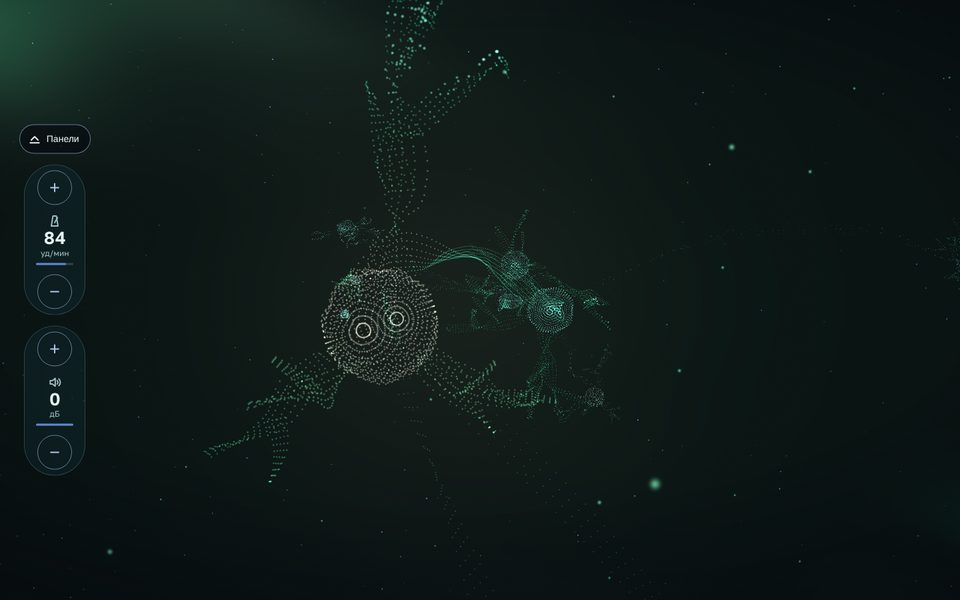
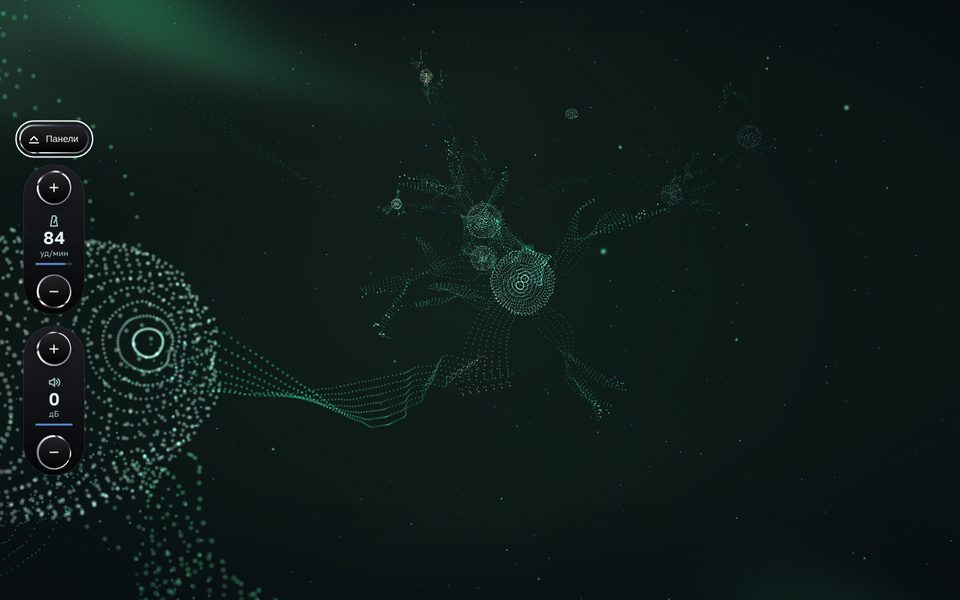
docs: rewrite README, new screenshots, license holder

diff --git a/README.md b/README.md
@@ -1,14 +1,14 @@
 # Нейросинт
 
-Браузерный грувбокс на Tone.js и Three.js: шесть лупов, четыре части сета, 3D-визуализация звука.
+Браузерный грувбокс для спокойного сета. Шесть лупов, четыре части, которые сбавляют темп и яркость, и 3D-нейроны, которые светятся вместе со звуком. Tone.js и Three.js, без сборки.
 
 ![Нейросинт](docs/screenshot.jpg)
 
-## Запуск
-
 Демо: https://digitalsecretaryalex-prog.github.io/WebsintAlex/
 
-Сборки нет. Нужен локальный сервер и доступ к CDN.
+## Запуск
+
+Нужен локальный сервер и доступ к CDN (Tone.js, Three.js, шейдеры металла, шрифт).
 
 ```bash
 git clone https://github.com/digitalsecretaryalex-prog/WebsintAlex.git
@@ -16,205 +16,158 @@ cd WebsintAlex
 python3 -m http.server 8000
 ```
 
-Открыть http://localhost:8000. Сначала заставка: стеклянная плитка со знаком и кнопка «Войти» (`Esc` тоже закрывает). Звук она не запускает. Потом круглая кнопка слева сверху.
+Открыть http://localhost:8000 и нажать круглую кнопку слева сверху. Звук стартует только по клику.
 
-Под кнопкой старта две кнопки: «Варианты» раскрывает три ряда (виды нейронов, фон, вид пульта), вторая прячет панели (`H`), чтобы смотреть на нейроны. Обе стоят на оси кнопки старта. У каждой кнопки подсказка по наведению. Выбор хранится в адресе:
+Выбор хранится в адресе, ссылка открывает то же самое:
 
-- `?view=flight|stream|field|cascade|tunnel|wave`: вид нейронов, без параметра `field`
-- `?bg=dust|calcium|tracts`: фон, во всех видах
-- `?ui=metal|glass|liquid`: вид пульта, без параметра обычный (ниже)
-- `?intro=0`: без заставки
+| Параметр | Значения | По умолчанию |
+| --- | --- | --- |
+| `?view=` | `flight`, `stream`, `field`, `cascade`, `tunnel`, `wave` | `tunnel` |
+| `?bg=` | `membrane`, `cortex`, `brain`, `sync`, `plasma`, `dust` | `membrane` |
+| `?ui=` | `liquid`, `glass`, `metal`, `base` | `liquid` |
 
-Шесть капсул равной ширины, ряд кончается по краю растра. Сброс, часть 4, кольцо DJ-фильтра и громкость стоят на одной вертикали. Колонка выхода шириной с кольцо, поэтому поля слева и справа равны.
-
-## Управление
+## Как играть
 
 |  | Мышь | Клавиши |
 | --- | --- | --- |
 | Старт / стоп | кнопка слева сверху | `Space` |
 | Слой | кнопка слоя | `1`-`6` |
-| Вариация | точки под кнопкой | `Q` `W` `E` `R` `T` `Y` |
+| Вариация слоя | три точки под кнопкой | `Q` `W` `E` `R` `T` `Y` |
 | Часть сета | кнопки сверху | `Z` `X` `C` `V` |
 | Сброс части | круг справа сверху | `0` |
-| Скрыть панели | кнопка под «Вариантами», вернуть: «Панели» слева | `H` |
-| Ракурс | тянуть по фону, правая кнопка или Shift сдвигает, колесо приближает |  |
-| Ручки и движки | drag, двойной клик для сброса | стрелки, `PageUp`, `PageDown`, `Home`, `End` |
-| Панорама слоя, свинг | только в `?ui=glass` и `?ui=liquid`: четвёртая ручка капсулы и ручка рядом с темпом | как у ручек |
+| Виды и фоны | кнопка под стартом |  |
+| Скрыть панели | кнопка под ней, вернуть: «Панели» слева | `H` |
+| Ракурс нейронов | тянуть по экрану, правая кнопка или Shift сдвигает, колесо приближает |  |
+| Ручки и движки | тянуть, двойной клик сбрасывает | стрелки, `PageUp`, `PageDown`, `Home`, `End` |
 
-Смены слоёв и частей применяются с начала следующего такта.
+Смены слоёв, вариаций и частей звучат с начала следующего такта. Когда панели скрыты, слева остаются темп (шаг 1 уд/мин) и общая громкость (шаг 2 дБ).
 
-Когда панели скрыты, на экране только нейроны и слева два регулятора: темп по 1 уд/мин (части сета отличаются на 4–5) и общая громкость по 2 дБ. Клик даёт один шаг, удержание повторяет шаг, стрелки на значении тоже шагают, `PageUp` и `PageDown` по пять шагов. Значения те же, что у крутилки темпа и движка выхода.
+Сет из четырёх частей:
 
-![Скрытые панели](docs/hidden.jpg)
+| Часть | Темп | Что меняется                                            |
+| ----- | ---- | ------------------------------------------------------- |
+| 1     | 84   | бочка, перкуссия, бас, пэд, фон                         |
+| 2     | 79   | входит мелодия                                          |
+| 3     | 74   | уходит бочка, общий фильтр прикрыт на 25 %              |
+| 4     | 70   | редкая бочка, без перкуссии, фильтр −45 %, мастер −3 дБ |
 
-| Часть | BPM | Слои                                      |
-| ----- | --- | ----------------------------------------- |
-| 1     | 84  | бочка, перкуссия, бас, пэд, фон           |
-| 2     | 79  | + мелодия                                 |
-| 3     | 74  | без бочки, фильтр −25 %                   |
-| 4     | 70  | без перкуссии, фильтр −45 %, мастер −3 дБ |
+## Звук
+
+```
+источник → Filter → FeedbackDelay → Reverb → Channel ─┐ ×6
+                                                       └→ lowpass → highpass → FeedbackDelay → Volume → Channel → Limiter → выход
+```
+
+У каждого слоя ручки тона (фильтр), эха, простора (реверб) и панорамы, движок громкости и Mute. На выходе DJ-фильтр (влево срезает верха, вправо низы), общее эхо и громкость. Рядом с темпом свинг шестнадцатых.
+
+- Звук без DOM: `audio.js` строит граф и транспорт, интерфейс звук не создаёт.
+- Граница такта считается в тиках транспорта: `'@1m'` считает в секундах и после плавной смены темпа промахивается.
+- Пэд на `fatsawtooth`: осциллятор `pwm` в Tone.js строится на WaveShaper и давал алиасинг, слышный как хрип. Контекст с `latencyHint: 'playback'`, буфер больше, звук не рвётся под нагрузкой 3D.
+- Моно-синт не запускается дважды в одно время: под тяжёлой графикой Tone изредка отдаёт шаг дважды, и синт падал с ошибкой.
+
+## Свет под звук
+
+Каждая нота приходит в картинку событием с громкостью, высотой и длиной (`audio.js: notify`). Событие ждёт, пока звук дойдёт до колонок (время ноты плюс `baseLatency` и `outputLatency`), поэтому вспышка совпадает с ударом.
+
+Все ручки слоя видны в свете одинаково во всех видах и фонах (`src/backgrounds/hearing.js`):
+
+| Ручка | Что видно |
+| --- | --- |
+| тон (фильтр) | закрытый даёт тусклую вспышку, открытый яркую |
+| эхо, обратная связь | вспышка повторяется через пунктирную восьмую, до трёх раз |
+| простор (реверб) | свечение тает дольше |
+| панорама | вспышка на своей стороне экрана |
+| громкость, слой включён | яркость нейронов слоя |
+| Mute | слой не светится |
+| темп, свинг | скорость импульсов и волн |
+| DJ-фильтр закрыт | меньше видимых связей, тусклее |
+| часть 1 → 4 | цвет уходит в ледяной, лавины короче, волны медленнее |
+
+До звука нейроны спят: свет медленно дышит, движение стоит. Просыпаются, когда звук действительно пошёл, а не по клику.
 
 ## Виды нейронов
 
-До звука сеть спит во всех видах: шары и камера стоят, свет медленно дышит. Просыпается не по клику, а когда звук реально пошёл (`audio.isSounding()`: транспорт запущен и аудиоконтекст работает). После стопа движение плавно затихает, сцена не сбрасывается.
-
-### Цепь: тоннель и волна
-
-Два вида собраны из приёмов двух эталонных сцен Three.js (Tunnel и Flow Wave). Сцены взяты не целиком: из каждой взят способ рисовать точками, цвет и фон, и этим способом нарисованы нейроны. Поведение у обоих видов общее (`src/views/chain.js`):
-
-- нейроны стоят цепью на изогнутом пути; импульс проходит один пролёт за такт и доходит до следующего нейрона перед сильной долей: волна бежит по дендритам к телу, тело вспыхивает цветом слоя;
-- нейрон впереди рождается по мере приближения камеры;
-- камера держится позади импульса и мягко его догоняет;
-- на периферии живут нейроны слоёв: нота зажигает нейрон своего слоя, его сигнал бежит по аксону к цепи;
-- форма дендритов общая (`src/views/skeleton.js`): звёздчатые нейроны и каждый третий пирамидный.
+Ключевые нейроны крупным планом, по ним видно каждую ноту.
 
 |                                  |                              |
 | -------------------------------- | ---------------------------- |
 | ![Тоннель](docs/view-tunnel.jpg) | ![Волна](docs/view-wave.jpg) |
 
-- `tunnel`: приём сцены Tunnel. Точки на кольцах трубы, шум в две октавы рябит радиус, угол дрожит и закручивается, цвет от индиго к циану. Тело нейрона: воронка из колец, сужается в аксон. Аксон: тонкий тоннель с перехватами миелина, импульс раздувает кольца. Нейрон рождается из вихря.
-- `wave`: приём сцены Flow Wave. Ровная сетка точек читается пунктирными линиями, по ней катятся холмы шума, цвет от изумрудного к мятному на гребнях. Тело: мембрана-сфера, по ней от дендритов к аксону катятся холмы, вспышка расходится кругами. Дендриты и аксон: ленты из той же сетки, импульс катится по ленте валом с рябью. Нейрон рождается из плоского листа точек. Во сне камера висит высоко, со звуком ныряет к ленте аксона, после стопа поднимается.
-
-#### Свет под звук
-
-Каждая нота каждого слоя приходит в вид отдельным событием с громкостью, высотой и длиной (`audio.js: notify` → `chain.pulse`). У слоя свой рисунок света, поэтому по картинке слышно, кто играет:
-
-| Слой | Что вспыхивает |
-| --- | --- |
-| бочка | всё тело и дендриты толкаются от удара, камера на миг подаётся вперёд, фон светлеет; в волне от тела расходится кольцо |
-| перкуссия | искры на кончиках дендритов, на каждый удар новый узор; акцент ярче |
-| бас | аксон светится цветом баса, пока нота звучит |
-| пэд | тело наливается цветом аккорда, фон окрашивается в цвет пэда |
-| мелодия | пакет бежит по одному дендриту к телу за полдлины ноты; какой дендрит, решает высота ноты |
-| фон | пылинки вокруг цепи вспыхивают по одной на каждый щелчок |
-
-Ручки слоя тоже видны в свете: закрытый фильтр даёт тусклую вспышку, эхо повторяет её через пунктирную восьмую (как `FeedbackDelay`), простор (реверб) удлиняет хвост, панорама зажигает нейрон слева или справа от цепи, Mute гасит слой.
-
-Свет ждёт ноту ровно столько, сколько звук идёт до колонок: время ноты плюс `baseLatency` и `outputLatency` аудиоконтекста. В headless Chrome это 23 + 72 мс, и свет приходит в первый кадр после этого. Живая частота кадров на видеокарте и совпадение на слух не проверены.
-
-Отличия от эталонов: вместо скролла сцену ведут звук и темп; три композера постобработки заменены одним проходом фона, потому что текстуры bloom в эталонах чёрные (слои камеры их не заполняют, проверено чтением пикселей); значения, цвета, шейдер фона и пылинки взяты из эталонов. Точные копии эталонов лежат отдельно от инструмента.
-
-### Шары
-
-Четыре вида, в каждом нейрон из 3 600 мягких точек. По оболочке текут холмы шума в две октавы (simplex), цвет идёт от тёмного синего во впадинах к ледяному на вершинах. Все шары связаны изогнутыми линиями, по каждой линии бежит свой импульс. Нота слоя зажигает шар этого слоя и пускает сигналы его цвета ко всем соседям. Всё плывёт вправо.
-
-|                                |                                  |
-| ------------------------------ | -------------------------------- |
-| ![Полёт](docs/view-flight.jpg) | ![Лента](docs/view-stream.jpg)   |
-| ![Поле](docs/view-field.jpg)   | ![Каскад](docs/view-cascade.jpg) |
-
-- `flight`: шары выплывают из глубины, проходят мимо камеры и рождаются снова вдали. Линии только между ближними.
-- `stream`: шары на разной глубине плывут вправо, дальние медленнее, у края тают и выходят слева.
-- `field`: два ряда шаров медленно дрейфуют вправо, дышат, вспыхивают по слоям.
-- `cascade`: сигнал, дошедший до соседа, зажигает его с вероятностью 0.7, 0.49, 0.34…: нейронная лавина до четырёх шагов.
-
-Когда панель скрыта, нижний ряд шаров плавно опускается на освободившееся место.
-
-Общая модель спайков (`src/views/spikes.js`): рефрактерный период, затухание, редкая фоновая активность.
-
-| Синтезатор | Визуализация |
-| --- | --- |
-| нота слоя | спайк цвета слоя: импульс по сети или вспышка шара и сигналы к соседям |
-| уровень слоя (Tone.Meter) | яркость популяции |
-| Mute, выключенный слой | популяция гаснет |
-| темп | скорость импульсов, дыхания и полёта |
-| простор (реверб) | время затухания спайка |
-| DJ-фильтр закрыт | меньше видимых точек и связей, тусклее |
-| часть сета 1 → 4 | меньше насыщенности, плотности и энергии |
-| уровень мастера | энергия: амплитуда волн и вращения |
-| курсор | раздвигает точки шаров; мышь крутит, двигает и приближает вид |
-
-Один WebGL-рендерер на все виды, pixel ratio не больше 2, на скрытой вкладке кадры не рисуются, при смене вида геометрии и материалы освобождаются. При `prefers-reduced-motion` спайков нет, движение медленное; в цепи камера стоит, а на каждый такт мягко светится один из ближних нейронов, сон и пробуждение видны по яркости.
+- `tunnel` и `wave`: цепь нейронов на изогнутом пути, импульс проходит пролёт за такт, камера летит за ним. Нейроны нарисованы приёмами двух сцен Three.js: кольца трубы (Tunnel) и пунктирная сетка с холмами шума (Flow Wave). У каждого слоя свой рисунок: бочка толкает тело и камеру, перкуссия искрит кончиками дендритов, бас светит аксоном, пэд красит тело и фон, мелодия бежит пакетом по дендриту на высоте ноты, фон зажигает пылинки.
+- `flight`, `stream`, `field`, `cascade`: шары из 3 600 точек, связанные линиями; нота зажигает шар своего слоя и шлёт сигналы соседям. В `cascade` сигнал зажигает соседа дальше, до четырёх шагов.
 
 ## Фоны
 
-Фон рисуется отдельной сценой той же камерой до вида, поэтому меняется без пересоздания нейронов (`src/views/background.js`). Яркость фона падает вместе с насыщенностью сета.
+За ключевыми нейронами живёт фон из сотен и тысяч нейронов. У фона своя сцена и камера, поэтому он одинаковый во всех шести видах. Под каждым фоном звёзды.
 
-У `tunnel` и `wave` под фоном лежит подложка эталона (цвет и всполохи): порядок «подложка → фон → нейроны». Там фон идёт за камерой, как звёзды, иначе цепь улетела бы из него, и светит вдвое ярче, чтобы не теряться на подложке.
+|                                   |                              |
+| --------------------------------- | ---------------------------- |
+| ![Мембрана](docs/bg-membrane.jpg) | ![Кора](docs/bg-cortex.jpg)  |
+| ![Мозг](docs/bg-brain.jpg)        | ![Синхрон](docs/bg-sync.jpg) |
+| ![Плазма](docs/bg-plasma.jpg)     |                              |
 
-- `dust`: 5 000 мелких мерцающих точек, как звёзды в глубине.
-- `calcium`: 2 400 клеток-колец, каждая вспыхивает и медленно гаснет в своём ритме, как на кальциевой съёмке нейронов. К концу сета вспышки реже.
-- `tracts`: 320 волокон белого вещества, цвет по направлению, как на картах трактов; по каждому бежит волна.
+- `membrane`, мембрана: сфера из 18 000 точек, по ней текут холмы шума, края светятся. Бочка пускает по оболочке кольцевую волну со стороны панорамы, бас раздувает сферу, пэд поднимает холмы и красит оболочку, треск фона вспыхивает отдельными точками. На оболочке сеть из 640 нейронов, по дугам бегут импульсы.
+- `cortex`, кора: ткань во весь экран, около тысячи нейронов в колонках и пустотах, как срез коры. Нота зажигает нейрон своего слоя, по связям бегут импульсы, у соседей загорается лавина. К концу сета лавины короче.
+- `brain`, мозг: два полушария по 850 нейронов с бороздами, таламус, ствол. Связи по коре, дуги мозолистого тела между полушариями, пучки от таламуса. Мозг медленно поворачивается туда и обратно, бочка его чуть раздувает.
+- `sync`, синхрон: поле из 2 380 нейронов-осцилляторов (модель Курамото). Соседи тянут фазы друг к другу, по полю сами бегут волны. Бочка сбрасывает фазы пятна, от него расходится кольцо; мелодия запускает волну по строке на высоте ноты; пэд усиливает связь. К четвёртой части поле дышит одной медленной волной, как во сне.
+- `plasma`, плазма: перенос компонента shader-background (21st.dev) с React на JS. Волнистые линии стали аксонами шести слоёв в цветах инструмента, бегущие кружки стали сигналами; эхо добавляет второй и третий сигнал на линию, панорама сдвигает гребень линий слоя.
+- `dust`, пыль: только космос, 5 000 мерцающих точек.
 
-|                                 |                               |
-| ------------------------------- | ----------------------------- |
-| ![Кальций](docs/bg-calcium.jpg) | ![Тракты](docs/bg-tracts.jpg) |
-
-## Заставка и металл
-
-Заставка и вариант `?ui=metal` используют два компонента 21st.dev, перенесённые с React на обычный JS:
-
-- `src/glass.js`: liquid-glass-logo-reveal. Шейдер и пружинная анимация без изменений (в исходнике они перенесены из [zanwei/glass-icon-reveal](https://github.com/zanwei/glass-icon-reveal), MIT). Вместо логотипа 21st.dev знак-заглушка: нейрон линиями в духе значков инструмента. Стекло оседает светлой плиткой на тёмно-синем фоне.
-- `src/metal.js`: liquid-metal-button. Шейдер из [@paper-design/shaders](https://github.com/paper-design/shaders) (Apache-2.0), параметры из компонента: металл течёт медленно, под курсором быстрее, на нажатие ускоряется на 300 мс, от клика расходится круг. Металл надевается на существующие кнопки (старт, сброс, варианты, панели, «Панели»), их подписи, клавиши и обработчики не меняются. Подпись светлее, чем в исходнике, ради контраста; фокус виден.
-
-|                             |                           |
-| --------------------------- | ------------------------- |
-| ![Заставка](docs/intro.jpg) | ![Металл](docs/metal.jpg) |
+Свечение каждого нейрона и каждой связи лежит в текстуре: JS пишет туда числа раз в кадр, шейдер читает их по номеру точки (`texelFetch`), поэтому десятки тысяч точек не пересчитываются в JS (`src/backgrounds/graph.js`).
 
 ## Вид пульта
 
-Третий ряд «Вариантов» переключает вид пульта на ходу, музыка не останавливается: обычный, металл (`?ui=metal`), стекло (`?ui=glass`), жидкий металл (`?ui=liquid`). Прошлый вид снимается целиком: каждая функция, которая надевает металл, возвращает функцию, которая его снимает (`applyUi` в `main.js`).
+|                                   |                           |
+| --------------------------------- | ------------------------- |
+| ![Жидкий металл](docs/liquid.jpg) | ![Стекло](docs/glass.jpg) |
 
-Стекло и жидкий металл: два варианта всего пульта в материалах заставки. Раскладка, клавиши и звук те же, что в обычном виде.
+- `liquid` (по умолчанию): чёрное железо, металл на каждой ручке и кнопке, цвет слоя только в светодиодах: шкала ручки, нажатый шаг, лесенка уровня. Есть ручки панорамы и свинга, риски вокруг ручек, шкала у движков.
+- `glass`: светлые стеклянные плитки на тёмно-синем фоне, металлические кольца у кнопок; ручки те же.
+- `metal`: металл только на главных кнопках.
+- `base`: без металла, три ручки на слой.
 
-- `?ui=glass`: светлые стеклянные плитки на тёмно-синем фоне, как плитка заставки. Капсулы слоёв со стеклянным бликом и радужной кромкой в углах, ручки стеклянными куполами, кнопки в металлических кольцах с синим значком. По умолчанию вид `tunnel`.
-- `?ui=liquid`: чёрное железо. Жидкий металл на каждой ручке и кнопке (71 элемент), цвет слоя только в светодиодах: полоска над капсулой, шкала ручки, нажатый шаг, лесенка уровня. По умолчанию вид `wave`.
+Металл стоит, без переливания. Шейдер liquid metal из [@paper-design/shaders](https://github.com/paper-design/shaders) (Apache-2.0) по компоненту liquid-metal-button (21st.dev). В `liquid` и `glass` весь металл рисует один WebGL-контекст (`src/liquid.js`): браузер держит около 16 контекстов, по контексту на кнопку не выйдет.
 
-Что добавлено в обоих вариантах:
-
-- ручка панорамы у каждого слоя (4-я в капсуле) и ручка свинга рядом с темпом (`Transport.swing`, сдвиг каждой второй шестнадцатой, до 50 %);
-- значение под каждой ручкой: «900 Гц», «8 %», «Л 15», «центр»;
-- 11 рисок вокруг ручки на её ходе 270°, у большого кольца DJ-фильтра 21 риска;
-- шкала из 11 рисок у каждого движка, хромовая ручка движка;
-- уровень слоя лесенкой светодиодов, тёмные ячейки видны всегда.
-
-|                           |                                   |
-| ------------------------- | --------------------------------- |
-| ![Стекло](docs/glass.jpg) | ![Жидкий металл](docs/liquid.jpg) |
-
-Металл на всех элементах рисует один WebGL-контекст (`src/liquid.js`): тот же шейдер, что у кнопок `?ui=metal`, считается на скрытом холсте в две плитки, круг и капсулу, 24 кадра в секунду. Каждый элемент копирует плитку в свой маленький холст, повернув на свой угол, чтобы металл не повторялся. По контексту на кнопку не выйдет: браузер держит около 16 контекстов. Со звуком металл течёт быстрее, при `prefers-reduced-motion` стоит. Без WebGL2 или без сети кольцо рисует CSS-градиент.
-
-## Архитектура
+## Устройство
 
 ```
-source → Filter → FeedbackDelay → Reverb → Channel ─┐ ×6
-                                                    └→ lowpass → highpass → FeedbackDelay → Volume → Channel → Limiter → out
-```
-
-```
+index.html
 src/
-  settings.js   данные: слои, вариации, части, мастер, клавиши
-  audio.js      звуковой граф и транспорт, без DOM
-  controls.js   ручка, движок, кнопки, растр, переключатели
-  visuals.js    рендерер, фон и вид, сглаженное состояние музыки, сон
-  views/        swarm.js (шары), spikes.js (модель спайков),
-                background.js (фоны), chain.js (цепь нейронов),
-                skeleton.js (форма дендритов), tunnel.js, wave.js
-                (стили цепи), atmosphere.js (фон и пылинки эталонов)
-  intro.js      заставка
-  glass.js      стеклянное появление знака
-  metal.js      жидкий металл для кнопок
-  liquid.js     жидкий металл на всех элементах одним контекстом
-  icons.js      SVG-значки
-  main.js       точка входа
+  settings.js     данные: слои, вариации, части, мастер, клавиши
+  audio.js        звуковой граф и транспорт, без DOM
+  controls.js     ручка, движок, кнопки, растр, переключатели
+  icons.js        SVG-значки
+  main.js         точка входа: связывает звук, пульт и картинку
+  metal.js        металл на главных кнопках
+  liquid.js       металл на всех элементах одним контекстом
+  visuals.js      рендерер: подложка, фон, вид; сон и пробуждение
+  views/          виды нейронов: swarm.js (шары), chain.js, tunnel.js,
+                  wave.js, skeleton.js (цепь), atmosphere.js, spikes.js
+  backgrounds/    фоны: index.js, hearing.js (звук для фонов), graph.js
+                  (сеть и лавины), membrane.js, cortex.js, brain.js,
+                  sync.js, plasma.js, dust.js, common.js
 styles/
-  reset.css
-  bold/         раскладка по блокам, MiniConsole.css: скрытые панели,
-                Intro.css, Metal.css,
-                Skin.css: общее для стекла и жидкого металла
-  glass/        Glass.css: цвета и материал варианта ?ui=glass
-  liquid/       Liquid.css: цвета и материал варианта ?ui=liquid
+  reset.css, basics.css   сброс, токены цвета и размеров, сетка
+  components/             по файлу на блок пульта
+  themes/                 Metal.css, Skin.css (общее для металла),
+                          Glass.css, Liquid.css
+docs/                     скриншоты для README
 ```
 
-- Квантование по такту считается в тиках транспорта: `'@1m'` считает в секундах и после плавной смены темпа промахивается.
-- Подсветка нот идёт через `Tone.getDraw()`, поэтому картинка совпадает со звуком.
-- Хрип в звуке убран: пэд был на `pwm`, а этот осциллятор Tone строит на WaveShaper и даёт алиасинг (негармонические призвуки около −35 дБ), теперь `fatsawtooth` из трёх голосов; треск фона тише; контекст с `latencyHint: 'playback'` и `lookAhead` 0.15 с, буфер больше, звук не рвётся под нагрузкой 3D. Лимитер не срабатывает: пики выхода ниже −3.7 дБ.
-- Звук не зависит от визуала: Three.js и шейдеры грузятся отдельно, без сети инструмент звучит.
-- Все контролы доступны с клавиатуры, у каждого `aria-label` со значением. При `prefers-reduced-motion` нейроны движутся в 7 раз медленнее, спайки от нот не вспыхивают, переходы частей без анимации.
+## Доступность
+
+- Все ручки, движки и кнопки доступны с клавиатуры, у каждой `aria-label` и значение словами (`aria-valuetext`), фокус виден.
+- Текста на пульте нет, значки с подсказками; контраст значков к фону от 4.5:1.
+- При `prefers-reduced-motion` импульсы не бегут, волны стоят, нейроны движутся в разы медленнее, металл и так неподвижен.
+- Вспышки местные: светится нейрон, связь или пятно, весь экран не мигает.
+
+## Проверка
+
+Проверено в headless Chrome (Playwright, программный рендер): ошибок в консоли нет; каждый слой звучит отдельно; клавиши, сброс и части работают; часть 4 стоит на оси сброса и кольца на 1000, 1280, 1440 и 1920 px; каждый из шести фонов отвечает на ноту каждого слоя, панораму, тон, эхо и Mute (замер по состоянию сцены). Не проверено: частота кадров на видеокарте, звук на слух, Safari.
 
 ## Стек
 
-HTML, CSS, JavaScript (ES-модули), [Tone.js](https://tonejs.github.io/) 15.1.22, [Three.js](https://threejs.org/) 0.160.0, [@paper-design/shaders](https://www.npmjs.com/package/@paper-design/shaders) 0.0.81 (только металл), Prettier. Шрифты Golos Text и Unbounded из Google Fonts.
+HTML, CSS, JavaScript (ES-модули), [Tone.js](https://tonejs.github.io/) 15.1.22, [Three.js](https://threejs.org/) 0.160.0, [@paper-design/shaders](https://www.npmjs.com/package/@paper-design/shaders) 0.0.81, Prettier. Шрифт Golos Text.
 
 ## Лицензия
 
